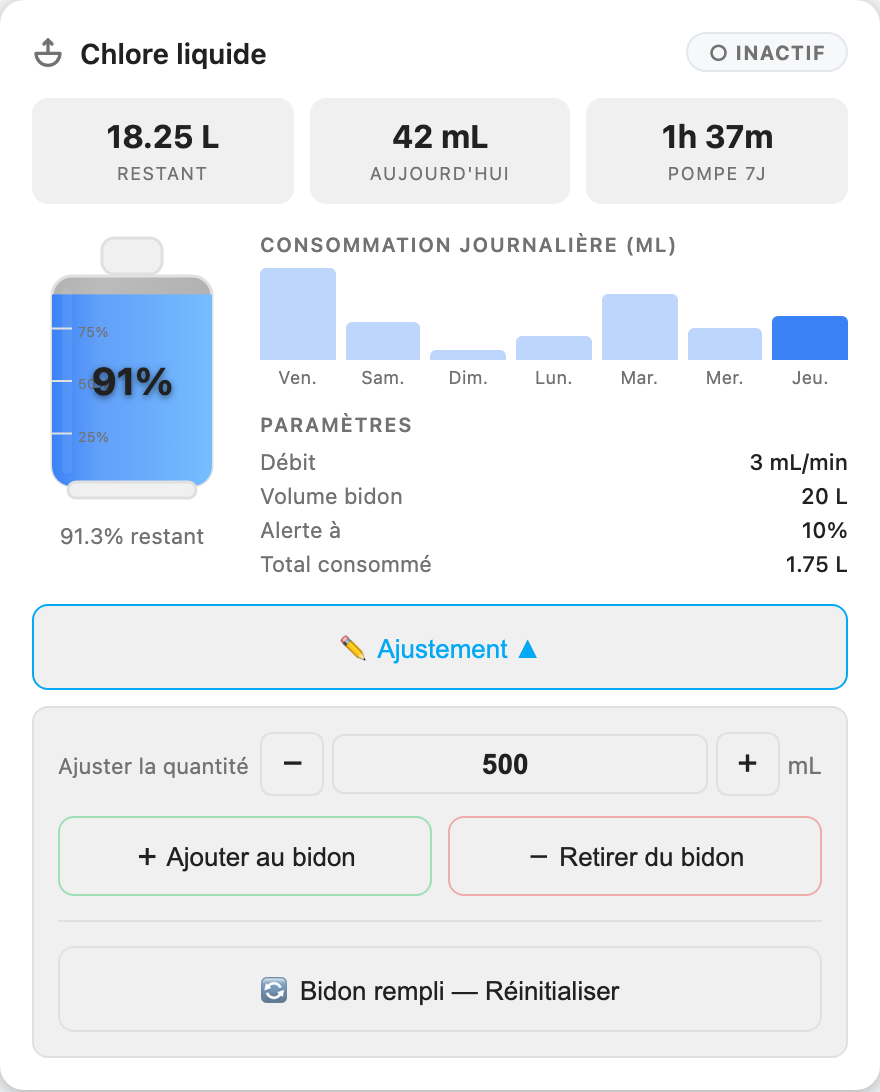
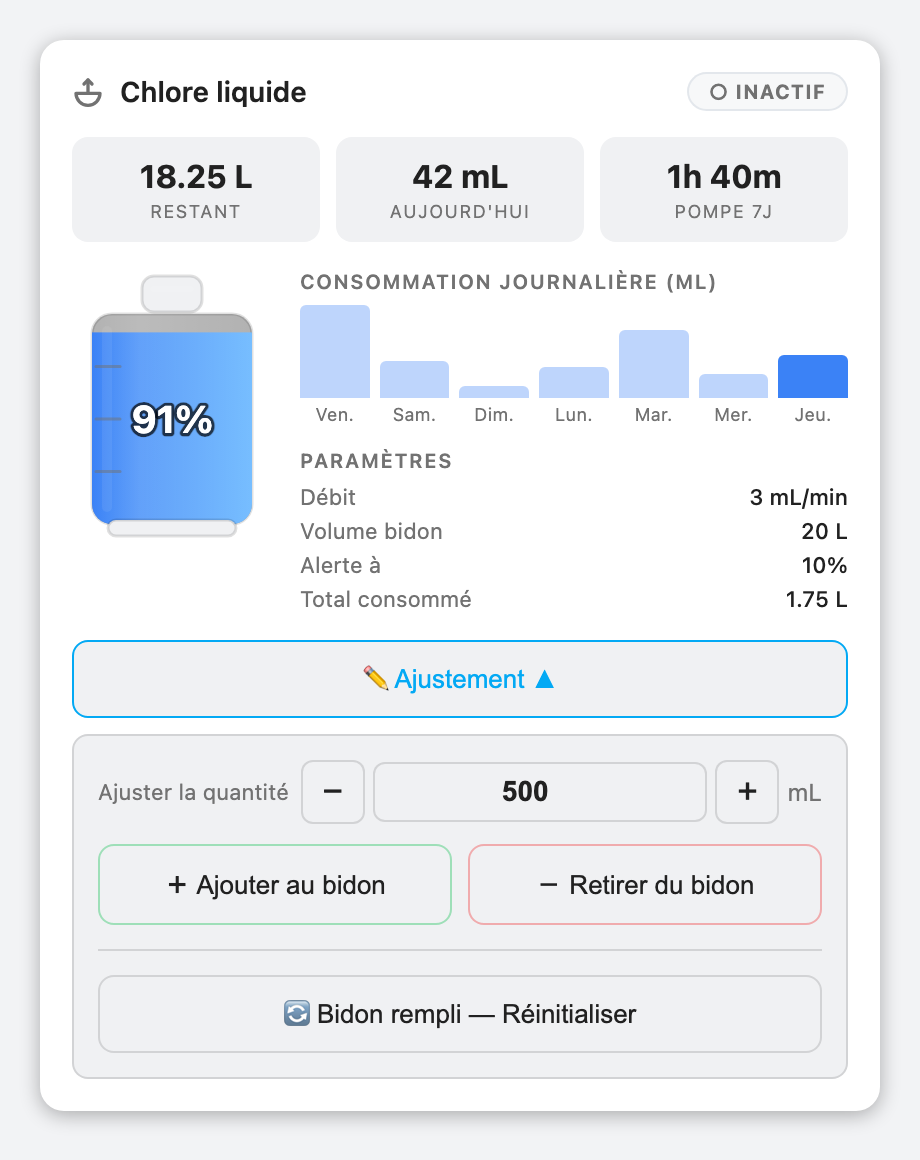
docs: regenerate every screenshot, the old ones showed the bugs
The README's main image dated from 9 July and had been advertising the very
defect reported this week: a dark 91% sitting across the "50%" graduation
label, on a light theme. It also predated the caption removal and the
overflow fix.

All four are redone from docs/demo.html, keeping the original staging (20 L
tank, 3 mL/min, 18.25 L left, adjustment panel open) so the change is legible
as a like-for-like comparison. The two direct-mode images move from dark to
light for consistency with the main one, which has always been light and is
Home Assistant's default.

demo.html gains theme / adjust / caption / width parameters, and its header
now carries the four exact commands. Heights differ per language because
French labels are longer.

diff --git a/docs/demo.html b/docs/demo.html
@@ -6,31 +6,64 @@
   ES modules need a real origin, so serve the repo root over HTTP:
 
     python3 -m http.server 8731
-    "/Applications/Google Chrome.app/Contents/MacOS/Google Chrome" --headless \
-      --screenshot=docs/screenshot-direct.png --window-size=760,470 \
-      --force-device-scale-factor=2 --hide-scrollbars --virtual-time-budget=4000 \
-      "http://localhost:8731/docs/demo.html?lang=en&mode=direct"
 
-  Query params: lang=en|fr|…  mode=direct|pump|all  colors=fixed|level
+  Then, with CH="/Applications/Google Chrome.app/Contents/MacOS/Google Chrome"
+  and SHOT="--headless --disable-gpu --force-device-scale-factor=2
+            --hide-scrollbars --virtual-time-budget=4000", the four images are:
+
+    $CH $SHOT --screenshot=docs/screenshot.png --window-size=460,532 \
+      ".../demo.html?lang=en&mode=pump&theme=light&adjust=1&caption=0&width=420"
+    $CH $SHOT --screenshot=docs/screenshot.fr.png --window-size=460,580 \
+      ".../demo.html?lang=fr&mode=pump&theme=light&adjust=1&caption=0&width=420"
+    $CH $SHOT --screenshot=docs/screenshot-direct.png --window-size=740,356 \
+      ".../demo.html?lang=en&mode=direct&theme=light"
+    $CH $SHOT --screenshot=docs/screenshot-direct.fr.png --window-size=740,380 \
+      ".../demo.html?lang=fr&mode=direct&theme=light"
+
+  Heights differ per language because French labels are longer; check the
+  bottom of the image is not clipped after changing anything.
+
+  Query params:
+    lang=en|fr|…        card language
+    mode=direct|pump|all
+    theme=light|dark    Home Assistant's two default palettes
+    colors=fixed|level  color_mode on every card
+    adjust=1            open the adjustment panel (pump mode)
+    caption=0           drop the labels above the cards
+    width=<px>          card column width, default 330
 -->
 <style>
-  body { margin:0; padding:20px; background:#111214; font-family:Roboto,system-ui,sans-serif; }
+  body { margin:0; padding:20px; font-family:Roboto,system-ui,sans-serif; }
   #wrap { display:flex; gap:18px; align-items:flex-start; }
-  .col { width:330px; }
-  .cap { color:#9aa0a6; font-size:11px; text-transform:uppercase; letter-spacing:.7px;
+  .cap { font-size:11px; text-transform:uppercase; letter-spacing:.7px;
          margin:0 0 8px 2px; }
+  /* Home Assistant's defaults, so the card can be checked in both. */
+  body.dark  { background:#111214; }
+  body.dark  .cap { color:#9aa0a6; }
+  body.light { background:#f2f3f5;
+    --ha-card-background:#fff; --card-background-color:#fff;
+    --primary-text-color:#212121; --secondary-text-color:#727272;
+    --divider-color:rgba(0,0,0,.12); --secondary-background-color:#f0f1f3;
+    --primary-color:#03a9f4; }
+  body.light .cap { color:#727272; }
 </style>
 <div id="wrap"></div>
 
 <script type="module">
 import '../dist/dosing-tank-card.js';
 
-const p    = new URLSearchParams(location.search);
+const p      = new URLSearchParams(location.search);
 const lang   = p.get('lang') || 'fr';
 const mode   = p.get('mode') || 'direct';
 const colors = p.get('colors') || 'fixed';
+const theme  = p.get('theme') || 'dark';
+const adjust = p.get('adjust') === '1';
+const shown  = p.get('caption') !== '0';
+const width  = p.get('width') || '330';
 const DAY  = 86400000;
 const now  = Date.now();
+
+document.body.className = theme === 'light' ? 'light' : 'dark';
 
 const CAP = {
   fr: { pct:'Capteur en %', inv:'Sonde inversée', pump:'Mode temps de pompe' },
@@ -46,10 +79,11 @@ const history = series => [series.map((v, i) => ({
 
 function add(caption, config, states, hist) {
   const col = document.createElement('div');
-  col.className = 'col';
-  col.innerHTML = `<p class="cap">${caption}</p>`;
+  col.style.width = width + 'px';
+  if (shown) col.innerHTML = `<p class="cap">${caption}</p>`;
   const card = document.createElement('dosing-tank-card');
   card.setConfig({ ...config, color_mode: colors });
+  if (adjust) card._showAdjust = true;
   card.hass = { states, locale: { language: lang },
                 callApi: async () => hist, callService: async () => {} };
   col.appendChild(card);
@@ -82,23 +116,31 @@ if (mode === 'direct' || mode === 'all') {
 }
 
 if (mode === 'pump' || mode === 'all') {
+  // One dosing session per day, of a different length each day, so the chart
+  // has some relief. Today's 14 min at 3 mL/min is the 42 mL in the tile.
+  const MINUTES = [30, 12, 4, 10, 22, 8, 14];   // oldest first, last = today
   const pumpHist = [[
-    { state: 'off', last_changed: new Date(now - 7 * DAY).toISOString() },
-    ...[6,5,4,3,2,1].flatMap(d => ([
-      { state: 'on',  last_changed: new Date(now - d * DAY).toISOString() },
-      { state: 'off', last_changed: new Date(now - d * DAY + 9 * 60000).toISOString() },
-    ])),
-    { state: 'on', last_changed: new Date(now - 20 * 60000).toISOString() },
+    { state: 'off', last_changed: new Date(now - 8 * DAY).toISOString() },
+    ...MINUTES.flatMap((min, i) => {
+      const start = now - (6 - i) * DAY - 6 * 3600000;
+      return [
+        { state: 'on',  last_changed: new Date(start).toISOString() },
+        { state: 'off', last_changed: new Date(start + min * 60000).toISOString() },
+      ];
+    }),
   ]];
   add(cap.pump,
     { pump_entity: 'switch.chlorine_pump', reset_entity: 'input_number.consumed',
-      sync_entity: 'input_datetime.sync', name: lang === 'fr' ? 'Chlore' : 'Chlorine',
-      flow_rate_ml_per_min: 15, tank_volume_liters: 5 },
-    { 'switch.chlorine_pump': { state: 'on',
-        last_changed: new Date(now - 20 * 60000).toISOString() },
-      'input_number.consumed': { state: '3820' },
+      sync_entity: 'input_datetime.sync',
+      name: lang === 'fr' ? 'Chlore liquide' : 'Liquid chlorine',
+      flow_rate_ml_per_min: 3, tank_volume_liters: 20,
+      alert_threshold_percent: 10 },
+    { 'switch.chlorine_pump': { state: 'off',
+        last_changed: new Date(now - 6 * 3600000).toISOString() },
+      'input_number.consumed': { state: '1750',
+        last_changed: new Date(now - 6 * 3600000).toISOString() },
       'input_datetime.sync': {
-        state: 'x', attributes: { timestamp: Math.floor((now - 20 * 60000) / 1000) } } },
+        state: 'x', attributes: { timestamp: Math.floor(now / 1000) } } },
     pumpHist);
 }
 </script>
